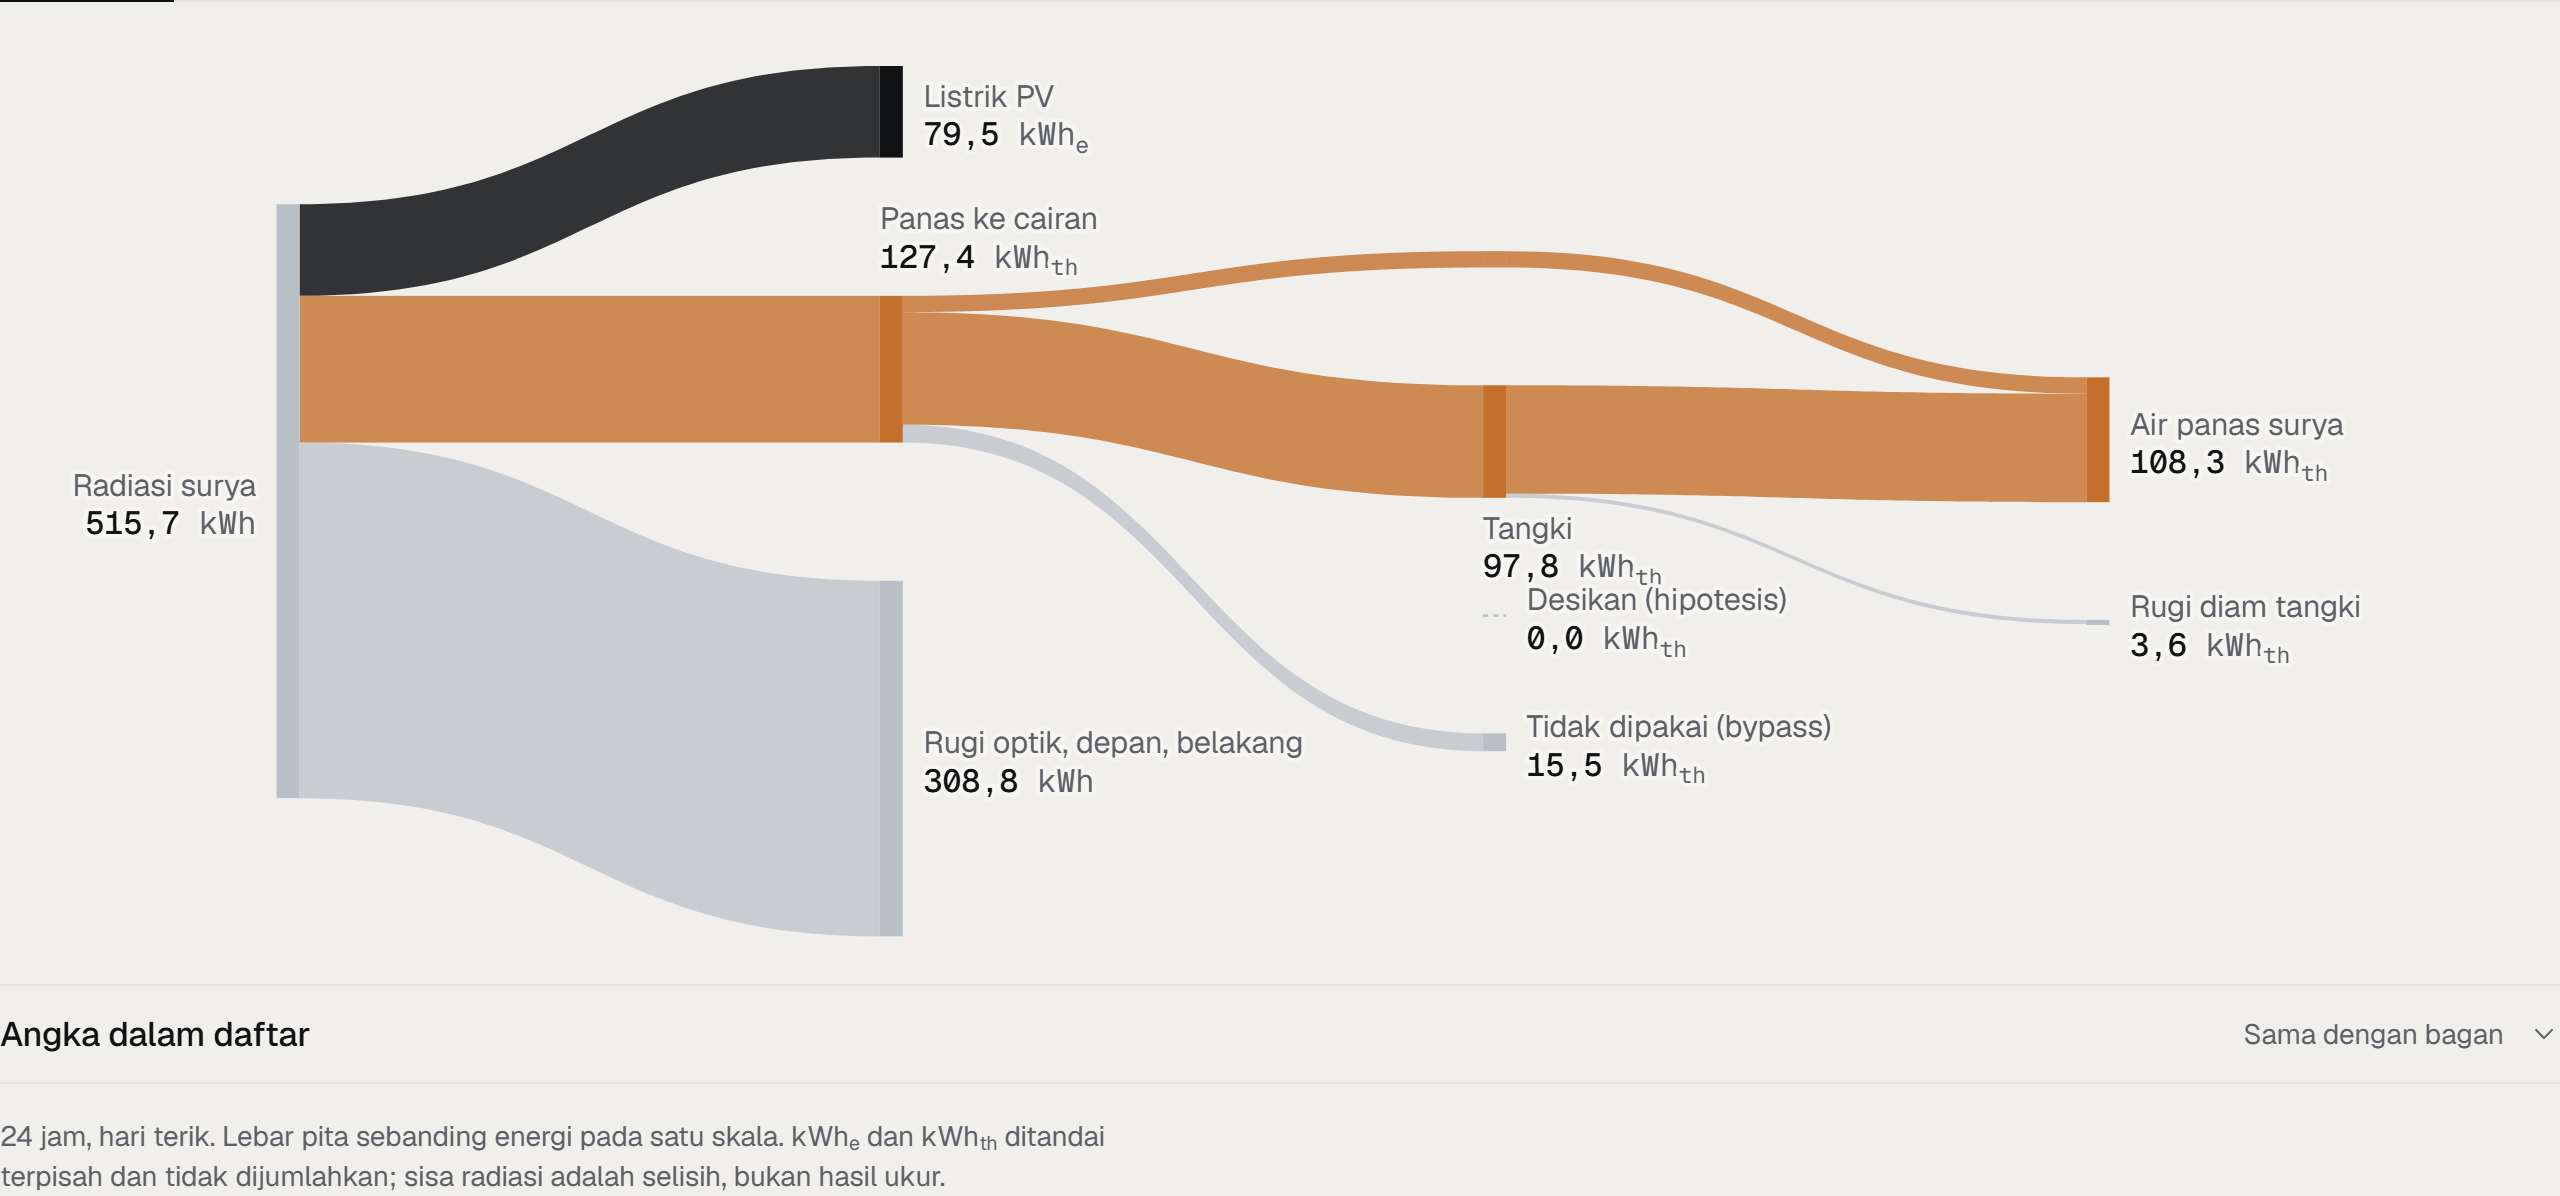
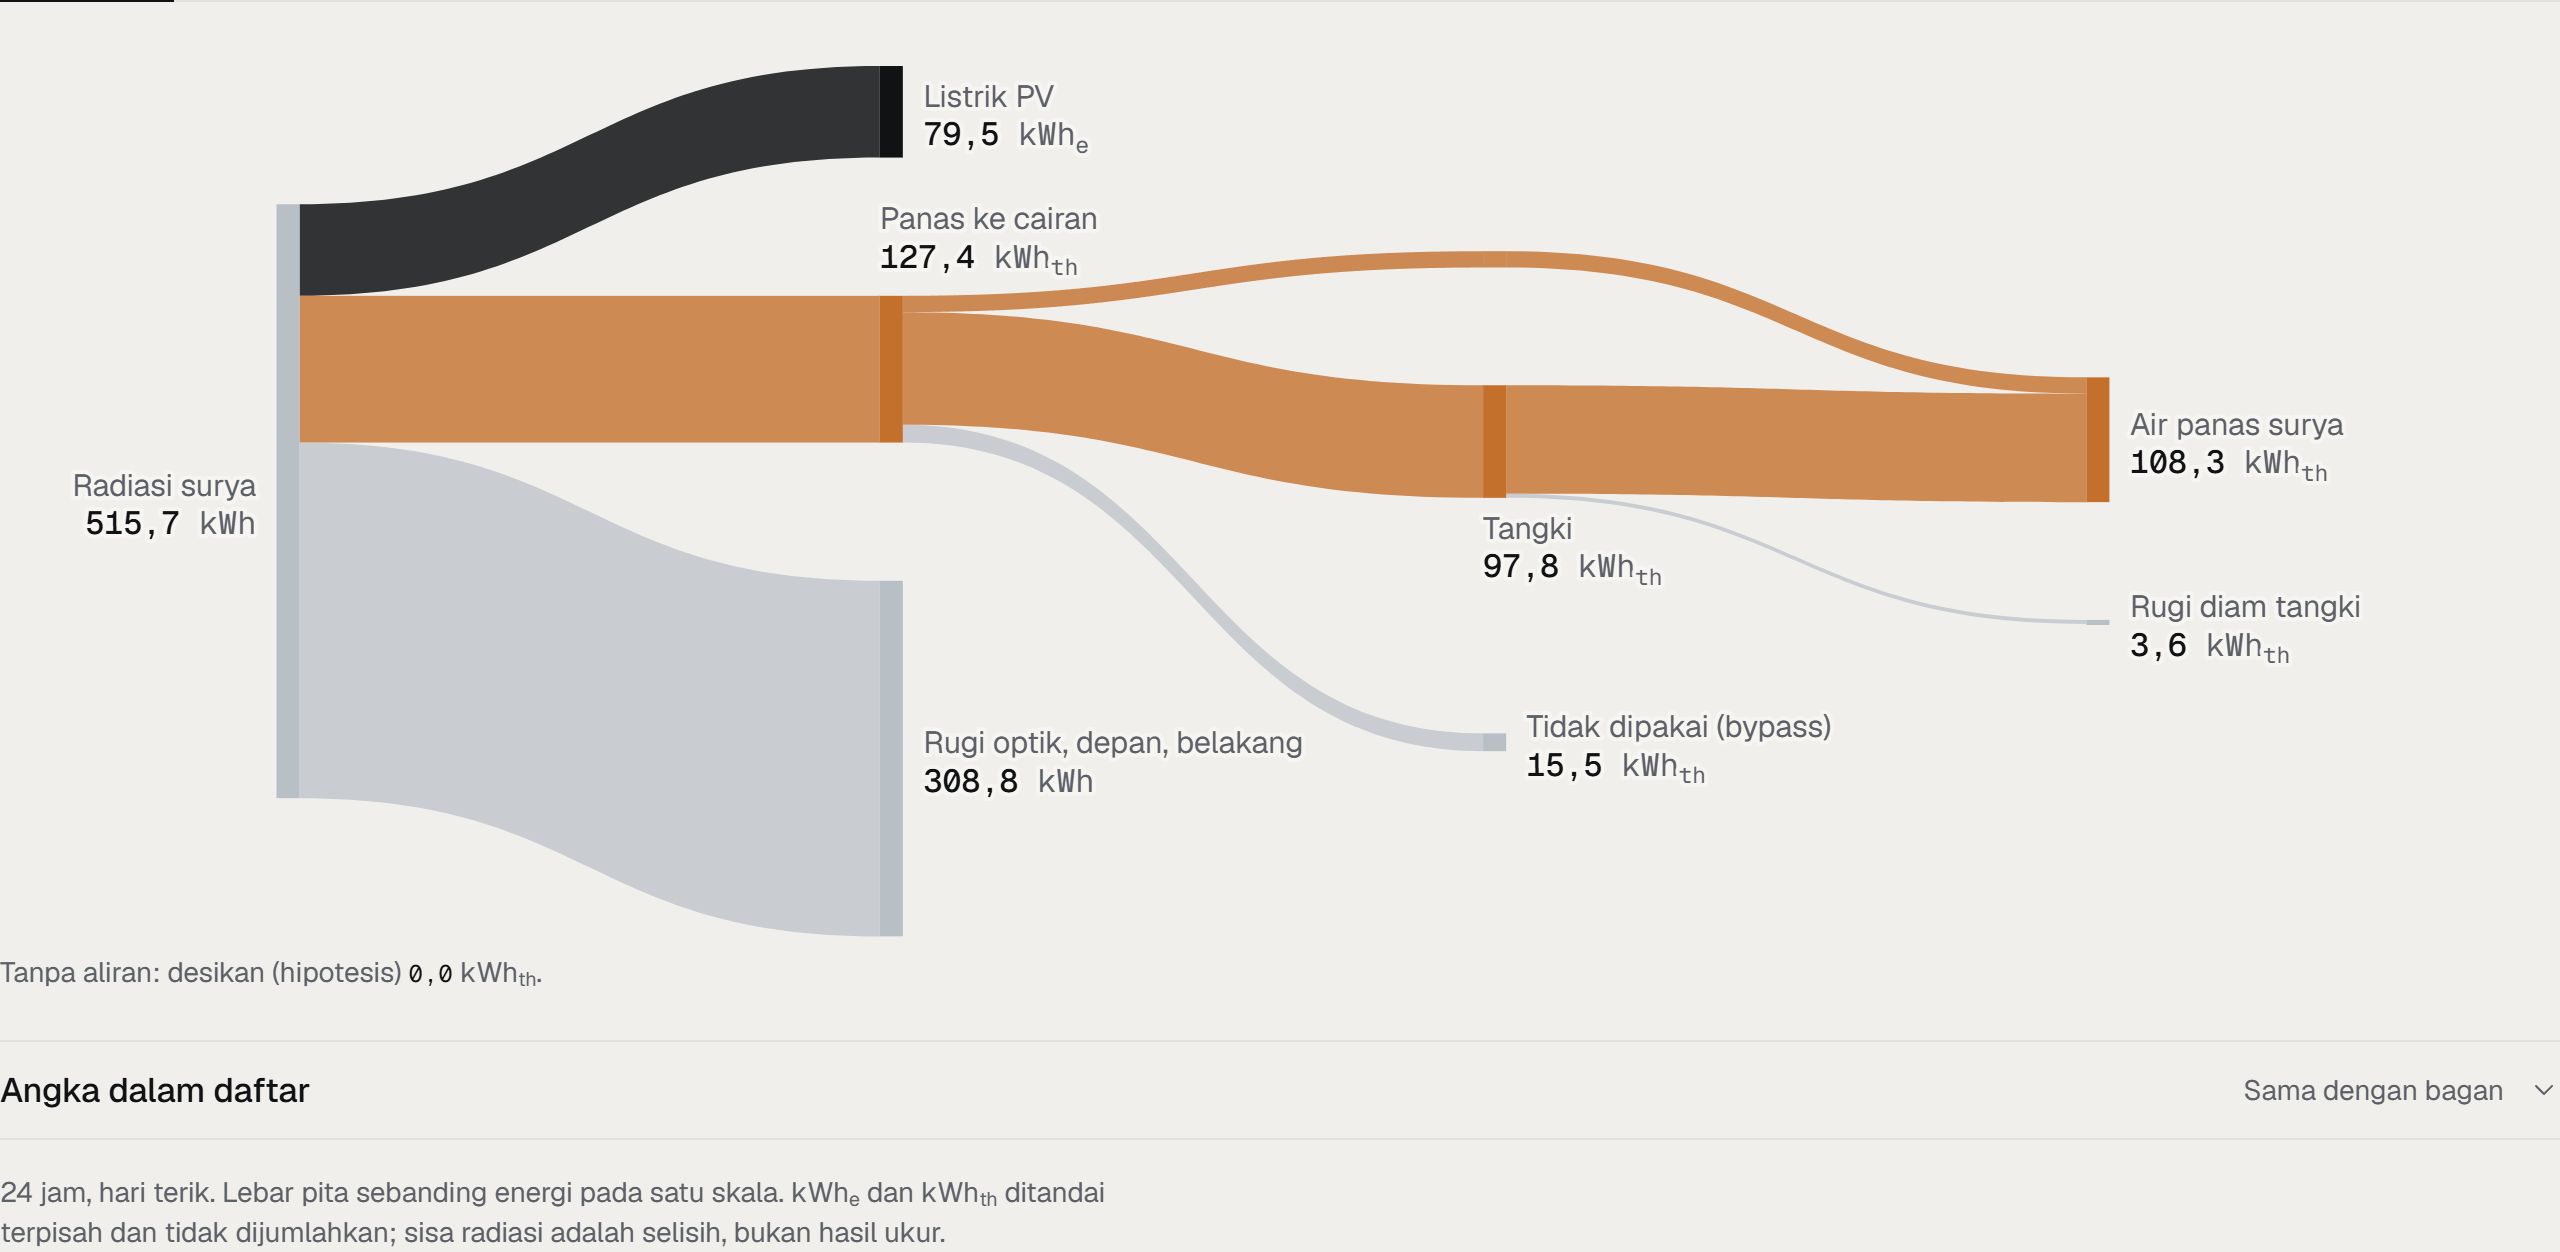
fix(lab): gate-3 - slider accessible names, Sankey zero-flow labels, paint-aware commit throttle, visible-only idle year/baselines, coarse hit areas

diff --git a/src/sections/lab/SysControls.tsx b/src/sections/lab/SysControls.tsx
@@ -30,23 +30,25 @@ const decimalsOf = (step: number) => {
 };
 
 /**
- * Satu perubahan sistem menjalankan simulasi hari (30 ms, sampai beberapa ratus ms untuk tangki besar). Agar jari tetap
+ * Satu perubahan sistem membuat semua bagian yang membaca store menghitung ulang (simulasi hari dan render). Agar jari tetap
  * mulus: slider menampilkan nilai draf seketika, dan menulis ke store paling cepat satu kali per selang yang
- * menyesuaikan biaya penulisan terakhir (minimal 70 ms); nilai terakhir selalu ditulis (trailing).
+ * mengikuti biaya NYATA penulisan terakhir (penulisan sinkron sampai dua frame tergambar, dikali 2; minimal 60 ms,
+ * maksimal 900 ms). Nilai terakhir selalu ditulis (trailing), sehingga thread utama punya jeda untuk masukan.
  */
 function SysSliderImpl({ spec, disabled }: { spec: SysSliderSpec; disabled?: boolean }) {
   const stored = useSystemStore((s) => spec.get(s.sys));
   const [draft, setDraft] = useState<number | null>(null);
   const pending = useRef<number | null>(null);
+  const busy = useRef(false);
   const timer = useRef<number | null>(null);
-  const gap = useRef(70);
 
+  /** Tulis ke store; panggil done(selang) setelah dua frame tergambar. */
   const commit = useCallback(
-    (n: number) => {
+    (n: number, done: (gapMs: number) => void) => {
       const st = useSystemStore.getState();
       const t0 = performance.now();
       st.setSys(spec.patch(n, st.sys));
-      gap.current = Math.max(70, Math.min(900, (performance.now() - t0) * 1.6));
+      requestAnimationFrame(() => requestAnimationFrame(() => done(Math.max(60, Math.min(900, (performance.now() - t0) * 2)))));
     },
     [spec],
   );
@@ -54,23 +56,25 @@ function SysSliderImpl({ spec, disabled }: { spec: SysSliderSpec; disabled?: boo
   const onChange = useCallback(
     (n: number) => {
       setDraft(n);
-      if (timer.current !== null) {
-        pending.current = n; // trailing: ditulis saat selang habis
+      if (busy.current) {
+        pending.current = n; // trailing: ditulis setelah selang
         return;
       }
-      commit(n);
-      const tick = () => {
-        timer.current = null;
-        if (pending.current !== null) {
-          const v = pending.current;
-          pending.current = null;
-          commit(v);
-          timer.current = window.setTimeout(tick, gap.current);
-        } else {
-          setDraft(null);
-        }
+      busy.current = true;
+      const after = (gapMs: number) => {
+        timer.current = window.setTimeout(() => {
+          timer.current = null;
+          if (pending.current !== null) {
+            const v = pending.current;
+            pending.current = null;
+            commit(v, after);
+          } else {
+            busy.current = false;
+            setDraft(null);
+          }
+        }, gapMs);
       };
-      timer.current = window.setTimeout(tick, gap.current);
+      commit(n, after);
     },
     [commit],
   );
@@ -83,7 +87,7 @@ function SysSliderImpl({ spec, disabled }: { spec: SysSliderSpec; disabled?: boo
   );
   // nilai store berubah dari luar (setel ulang, preset): lepaskan draf bila tidak ada penulisan tertunda
   useEffect(() => {
-    if (pending.current === null && timer.current === null) setDraft(null);
+    if (!busy.current) setDraft(null);
     else if (draft !== null && Math.abs(stored - draft) < 1e-9 && pending.current === null) setDraft(null);
   }, [stored, draft]);
 

diff --git a/src/sections/Instrumentation.tsx b/src/sections/Instrumentation.tsx
@@ -1,4 +1,5 @@
 import { useMemo, useState } from 'react';
+import { useInView } from '../hooks';
 import { LABELS, type BaselineId } from '../sim/system';
 import { useDay } from '../state/systemSelectors';
 import { useSystemStore } from '../state/system';
@@ -8,7 +9,7 @@ import { dayFlows } from '../charts/lab/flowModel';
 import { DayChart, TemperatureChart } from '../charts/lab/LabCharts';
 import { Tabs, type TabSpec } from './lab/Tabs';
 import { U } from './lab/units';
-import { useSettledView } from './lab/useSettledView';
+import { useIdleMemo, useSettledView } from './lab/useSettledView';
 
 type TabId = 'aliran' | 'suhu' | 'harian';
 const TABS: readonly TabSpec<TabId>[] = [
@@ -37,19 +38,22 @@ function DayReadouts() {
 
 /** Hasil tahunan (tier berat, ditunda): bagian surya dan CO2e bersih terhadap empat pembanding. */
 function YearReadouts() {
-  const { view, pending: calculating } = useSettledView();
+  // tier berat: hanya dihitung bila terlihat, setelah geseran berhenti, dan satu per satu (waktu senggang)
+  const [ref, inView] = useInView<HTMLDivElement>({ rootMargin: '300px' });
+  const { view, pending } = useSettledView(280, inView);
   const strategy = useSystemStore((s) => s.strategy);
-  const year = useMemo(() => view.year(strategy), [view, strategy]);
-  const base = useMemo(() => view.baselines(), [view]);
+  const year = useIdleMemo(() => view.year(strategy), [view, strategy]);
+  const base = useIdleMemo(() => view.baselines(), [view, year]);
+  const calculating = pending || year === undefined || base === undefined;
   return (
-    <div className={calculating ? 'opacity-60 transition-opacity' : 'transition-opacity'} aria-busy={calculating}>
+    <div ref={ref} className={calculating ? 'opacity-60 transition-opacity' : 'transition-opacity'} aria-busy={calculating}>
       <div className="grid grid-cols-2 gap-x-6 gap-y-6 sm:grid-cols-3 xl:grid-cols-5">
-        <Readout label="Bagian air panas dari surya, setahun" value={year.totals.solarFraction * 100} unit="%" kind="neutral" size="md" digits={0} />
+        <Readout label="Bagian air panas dari surya, setahun" value={(year?.totals.solarFraction ?? NaN) * 100} unit="%" kind="neutral" size="md" digits={0} />
         {BASELINES.map((b) => (
           <Readout
             key={b}
             label={`CO₂e bersih dihindari terhadap ${b}`}
-            value={base.ledgers[b].netKgPerYear / 1000}
+            value={(base?.ledgers[b].netKgPerYear ?? NaN) / 1000}
             unit="t/tahun"
             kind="neutral"
             size="md"
@@ -63,7 +67,7 @@ function YearReadouts() {
         {calculating ? 'Menghitung ulang angka tahunan…' : ''}
       </p>
       <Disclosure title="Kalimat putusan terhadap pembanding" hint="Dibuat dari angka di atas" level={4} className="mt-2 max-w-3xl">
-        <U>{base.verdict}</U>
+        <U>{base?.verdict ?? ''}</U>
       </Disclosure>
     </div>
   );

diff --git a/src/sections/lab/useSettledView.ts b/src/sections/lab/useSettledView.ts
@@ -1,20 +1,51 @@
-import { useEffect, useMemo, useState } from 'react';
+import { useEffect, useMemo, useRef, useState } from 'react';
 import { getSystemView, type SystemView } from '../../sim/system';
 import { useSystemStore } from '../../state/system';
 
 /**
- * Tier berat (tahunan, pembanding: ratusan milidetik, sinkron) hanya dihitung setelah geseran berhenti `ms` milidetik.
- * Selama menggeser, angka lama tetap tampil dan `pending` true. `useDeferredValue` tidak cukup di sini: satu
- * perhitungan sinkron yang sudah mulai tidak bisa disela, jadi setiap tick akan menahan thread utama.
+ * Tier berat (tahunan, pembanding) hanya dihitung (a) setelah geseran berhenti `ms` milidetik dan (b) bila pembacanya
+ * terlihat (`enabled`). Selama menggeser, angka lama tetap tampil dan `pending` true. `useDeferredValue` tidak cukup:
+ * perhitungan sinkron yang sudah mulai tidak bisa disela, jadi setiap tick menahan thread utama.
  */
-export function useSettledView(ms = 280): { view: SystemView; pending: boolean } {
+export function useSettledView(ms = 280, enabled = true): { view: SystemView; pending: boolean } {
   const sys = useSystemStore((s) => s.sys);
   const [settled, setSettled] = useState(sys);
   useEffect(() => {
-    if (sys === settled) return;
+    if (!enabled || sys === settled) return;
     const id = window.setTimeout(() => setSettled(sys), ms);
     return () => window.clearTimeout(id);
-  }, [sys, settled, ms]);
+  }, [sys, settled, ms, enabled]);
   const view = useMemo(() => getSystemView(settled), [settled]);
   return { view, pending: settled !== sys };
+}
+
+/**
+ * Menghitung `fn` pada waktu senggang (requestIdleCallback, batas 800 ms) dan mempertahankan nilai terakhir sampai
+ * hasil baru siap: dua tier berat tidak menumpuk dalam satu tugas panjang.
+ */
+export function useIdleMemo<T>(fn: () => T, deps: readonly unknown[]): T | undefined {
+  const [value, setValue] = useState<T>();
+  const latest = useRef(fn);
+  latest.current = fn;
+  useEffect(() => {
+    const w = window as Window & { requestIdleCallback?: (cb: () => void, o?: { timeout: number }) => number; cancelIdleCallback?: (id: number) => void };
+    let cancelled = false;
+    const run = () => {
+      if (!cancelled) setValue(latest.current());
+    };
+    if (w.requestIdleCallback) {
+      const id = w.requestIdleCallback(run, { timeout: 800 });
+      return () => {
+        cancelled = true;
+        w.cancelIdleCallback?.(id);
+      };
+    }
+    const id = window.setTimeout(run, 60);
+    return () => {
+      cancelled = true;
+      window.clearTimeout(id);
+    };
+    // eslint-disable-next-line react-hooks/exhaustive-deps
+  }, deps);
+  return value;
 }

diff --git a/src/charts/lab/FlowChart.tsx b/src/charts/lab/FlowChart.tsx
@@ -234,7 +234,14 @@ function Sankey({ flows, width }: { flows: DayFlows; width: number }) {
 
   const desc = `Aliran energi ${formatId(flows.hours, 0)} jam. Radiasi ${f1(flows.radiantKWh)} kWh menjadi listrik PV ${f1(flows.pvKWhE)} kWh listrik, panas ke cairan ${f1(flows.heatKWhTh)} kWh termal, dan sisanya rugi. Panas ke cairan: air panas langsung ${f1(flows.directKWhTh)}, tangki ${f1(flows.toTankKWhTh)}, desikan ${f1(flows.regenKWhTh)}, tidak dipakai ${f1(flows.bypassKWhTh)} kWh termal.`;
 
+  // tujuan tanpa aliran tidak diberi label di bagan (bertumpuk dengan label tetangga); disebut satu baris di bawahnya
+  const idle = model.nodes
+    .filter((n) => !n.hidden && n.value < 0.05)
+    .map((n) => labelOf(n.id))
+    .filter((l): l is NodeLabel => l !== null);
+
   return (
+    <>
     <svg viewBox={`0 0 ${width} ${height}`} width="100%" role="img" aria-label={desc} className="block h-auto w-full overflow-visible">
       <g>
         {model.links.map((l) => {
@@ -256,7 +263,7 @@ function Sankey({ flows, width }: { flows: DayFlows; width: number }) {
         {model.nodes.map((n) => {
           if (n.hidden) return n.h > 0 ? <rect key={n.id} x={n.x} y={n.y} width={9} height={n.h} fill={COLOR.heat} opacity={0.8} /> : null;
           const lb = labelOf(n.id);
-          if (!lb) return null;
+          if (!lb || n.value < 0.05) return null;
           const midY = n.y + Math.max(n.h, 0) / 2;
           const anchor = lb.side === 'l' ? 'end' : 'start';
           const x = lb.side === 'l' ? n.x - 8 : lb.side === 'r' ? n.x + 9 + 8 : n.x;
@@ -296,5 +303,18 @@ function Sankey({ flows, width }: { flows: DayFlows; width: number }) {
         })}
       </g>
     </svg>
+    {idle.length > 0 ? (
+      <p className="m-0 mt-2 text-small text-ink-2">
+        Tanpa aliran:{' '}
+        {idle.map((l, i) => (
+          <span key={l.name}>
+            {i > 0 ? ', ' : ''}
+            {l.name.toLowerCase()} <span className="num text-mono-label text-ink">0,0</span> kWh<sub className="text-[0.7em]">{l.form}</sub>
+          </span>
+        ))}
+        .
+      </p>
+    ) : null}
+    </>
   );
 }

diff --git a/src/sections/lab/SliderRow.tsx b/src/sections/lab/SliderRow.tsx
@@ -1,4 +1,4 @@
-import { memo } from 'react';
+import { memo, useEffect } from 'react';
 import { InfoTip, Slider, type SliderProps } from '../../ui';
 
 /**
@@ -6,6 +6,10 @@ import { InfoTip, Slider, type SliderProps } from '../../ui';
  * `help` jadi isi tooltip; slider sendiri tetap `compact` agar tidak ada teks bantuan permanen.
  */
 function SliderRowImpl({ help, ...rest }: SliderProps & { help?: string }) {
+  // nama aksesibel eksplisit pada <input type=range> (selain <label for>): terbaca juga oleh alat uji yang mencari aria-label
+  useEffect(() => {
+    document.getElementById(rest.id)?.setAttribute('aria-label', rest.label);
+  }, [rest.id, rest.label]);
   return (
     <div className="grid grid-cols-[minmax(0,1fr)_auto] items-start gap-x-3">
       <Slider density="compact" {...rest} />

diff --git a/src/sections/ControlPanel.tsx b/src/sections/ControlPanel.tsx
@@ -11,6 +11,7 @@ import {
 } from '../sim/system';
 import { useSystemStore, type HotelPresetId } from '../state/system';
 import { Button, ResetIcon, SegmentedControl, formatId, type SegmentedOption } from '../ui';
+import './lab/lab.css';
 import { Group, SysSlider, SysToggle, type SysSliderSpec } from './lab/SysControls';
 
 /**
@@ -259,7 +260,7 @@ function ControlPanelImpl() {
     st.setDesiccantView({ regenAir: DEFAULT_SYSTEM.desiccant.regenAir, regenC: 50 });
   };
   return (
-    <div className="space-y-6">
+    <div className="lab-rig space-y-6">
       <div className="flex flex-wrap items-center justify-between gap-3">
         <PresetControl />
         <Button size="sm" variant="ghost" icon={<ResetIcon size={16} />} onClick={reset} title="Kembalikan semua nilai ke bawaan">

diff --git a/src/sections/lab/lab.css b/src/sections/lab/lab.css
@@ -1,0 +1,15 @@
+/* Layar sentuh: bidang nilai angka (input teks pada Slider) dan sakelar mendapat area ketuk >= 44 px tanpa mengubah tata letak. */
+@media (pointer: coarse) {
+  .lab-rig input[type='text'] {
+    padding-block: 0.75rem;
+    margin-block: -0.75rem;
+  }
+  .lab-rig [role='switch'] {
+    position: relative;
+  }
+  .lab-rig [role='switch']::before {
+    content: '';
+    position: absolute;
+    inset: -0.75rem -0.5rem;
+  }
+}
